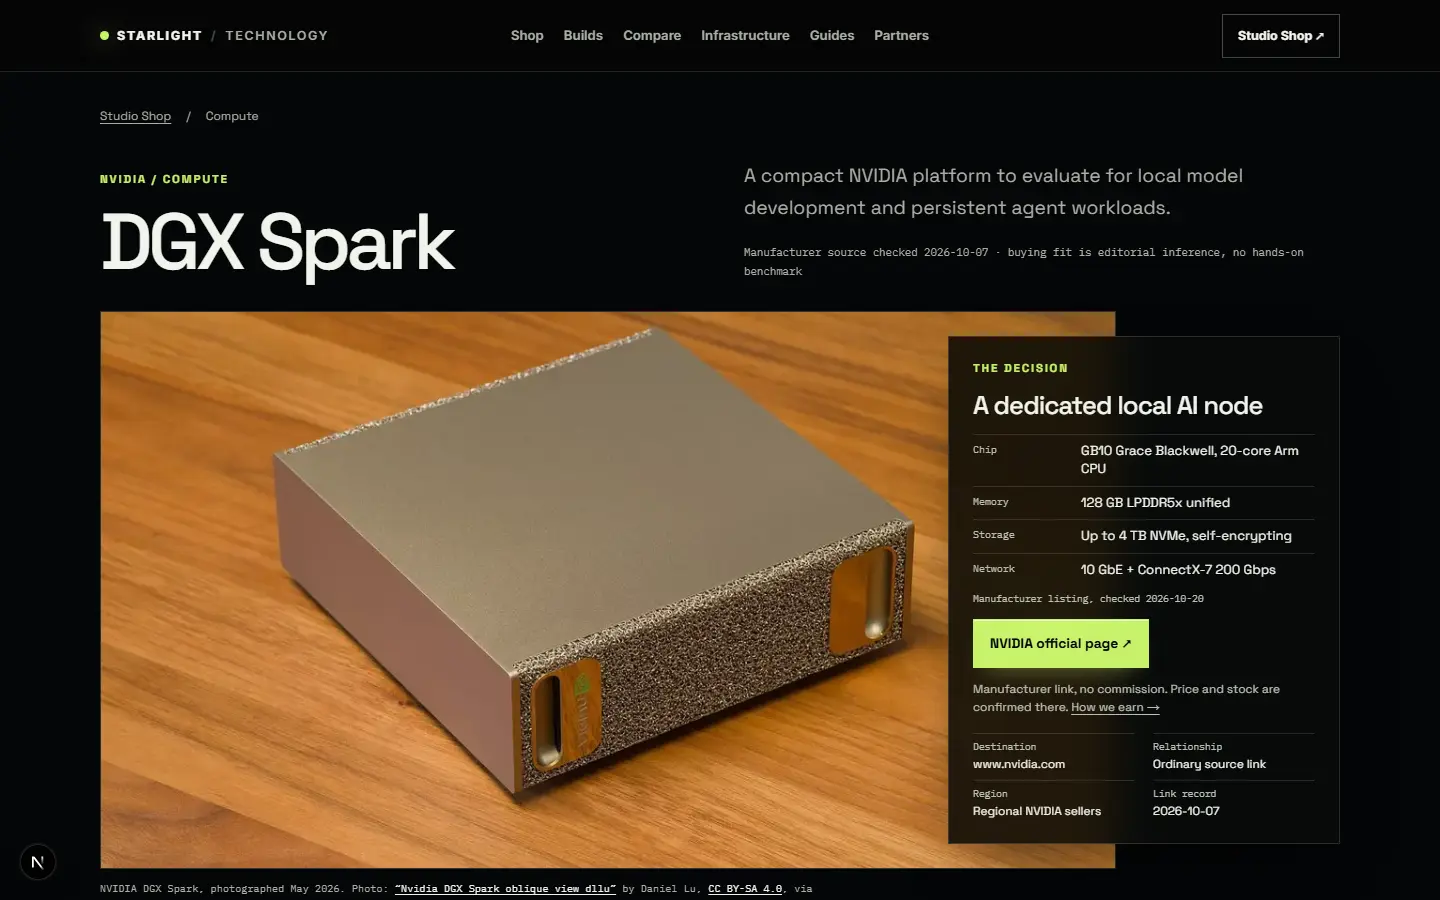
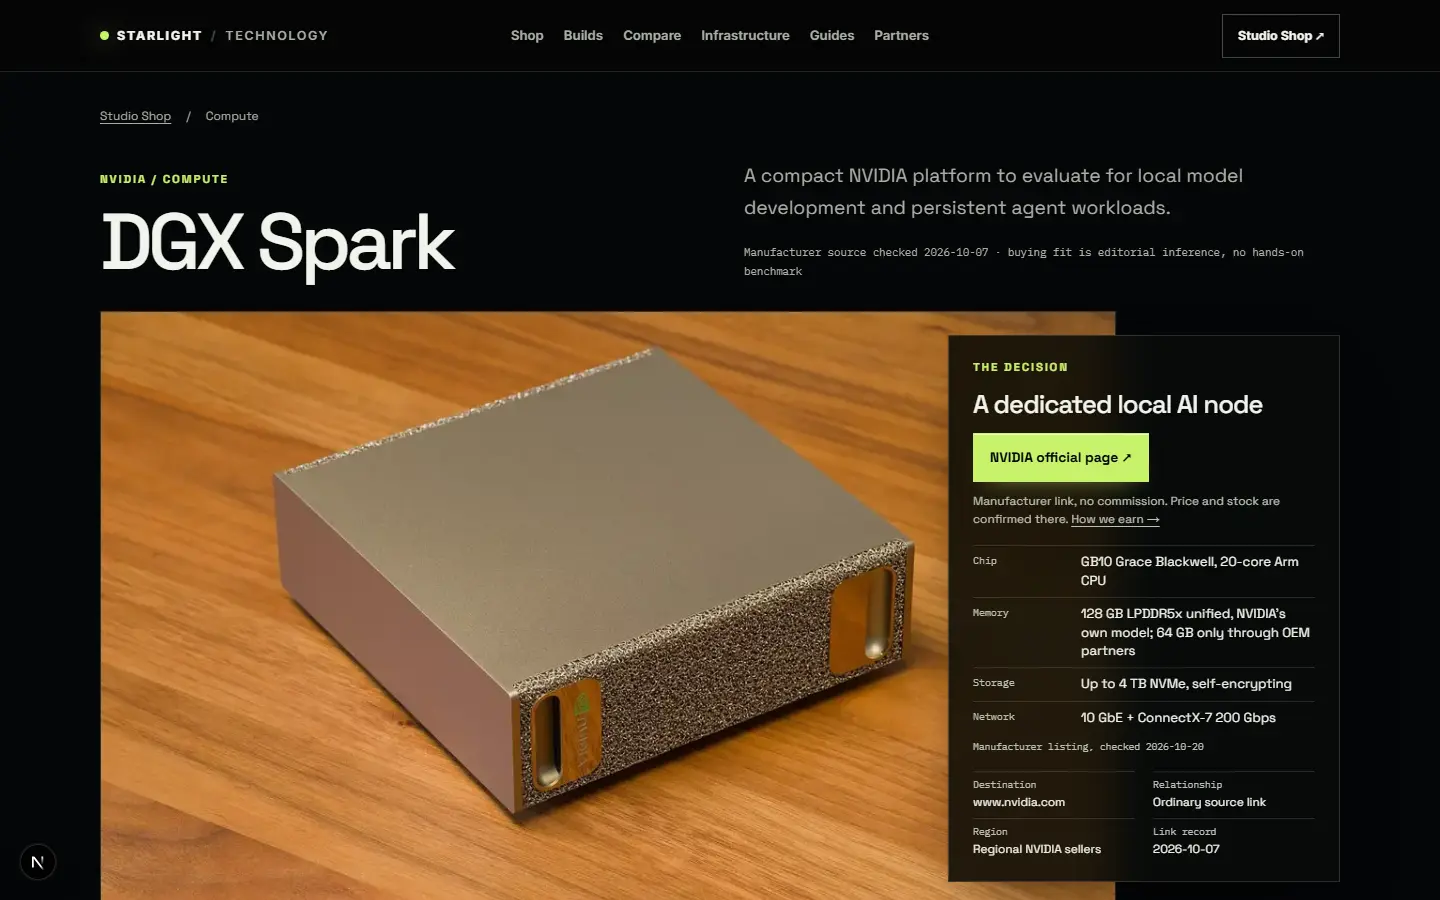
fix(shop): Codex round 2: one sourced Mac pick, DGX variant, UGREEN specs
- Mac Studio panel names one of Apple's three standard configurations
  (M5 Max 18-core CPU / 40-core GPU, 64 GB, 1 TB) as the pick, with the
  wider range on its own row.
- DGX Spark memory row says 128 GB is NVIDIA's own model and 64 GB is
  OEM-only.
- DXP4800 Plus rows filled from UGREEN's NL page: Pentium Gold 8505,
  8 GB DDR5-6400 (to 64 GB), 10 GbE + 2.5 GbE, 4 bays + 2 M.2, 144 TB raw.
- The Mac's DGX alternative is now a replacement path, not an add-on.
- Photos that show a different variant are left out of Open Graph and
  Product JSON-LD.
- The action moves above the configuration rows and the mobile photo goes
  16:10, so the action sits inside the first 375 x 812 viewport.

diff --git a/src/app/shop/[slug]/page.tsx b/src/app/shop/[slug]/page.tsx
@@ -16,7 +16,8 @@ export async function generateMetadata({ params }: { params: Promise<{ slug: str
   const product = getShopProduct(slug);
   if (!product) return {};
   const photo = getShopPhoto(slug);
-  return { title: `${product.brand} ${product.name} — Buying decision`, description: product.summary, alternates: { canonical: `/shop/${slug}` }, openGraph: { title: `${product.brand} ${product.name}`, description: product.summary, url: `/shop/${slug}`, ...(photo ? { images: [{ url: photo.src, width: photo.width, height: photo.height, alt: photo.alt }] } : {}) } };
+  const shareable = photo && !photo.variantNote ? photo : undefined;
+  return { title: `${product.brand} ${product.name} — Buying decision`, description: product.summary, alternates: { canonical: `/shop/${slug}` }, openGraph: { title: `${product.brand} ${product.name}`, description: product.summary, url: `/shop/${slug}`, ...(shareable ? { images: [{ url: shareable.src, width: shareable.width, height: shareable.height, alt: shareable.alt }] } : {}) } };
 }
 
 export default async function ProductPage({ params }: { params: Promise<{ slug: string }> }) {
@@ -28,7 +29,7 @@ export default async function ProductPage({ params }: { params: Promise<{ slug: 
   const config = shopConfigs[slug];
   const alternatives = (shopAlternatives[slug] ?? []).flatMap((alt) => { const item = getShopProduct(alt.slug); return item ? [{ item, tradeoff: alt.tradeoff }] : []; });
   const affiliate = offer.relationship === "affiliate";
-  const schema = { "@context": "https://schema.org", "@type": "Product", name: `${product.brand} ${product.name}`, description: product.summary, brand: { "@type": "Brand", name: product.brand }, url: `https://starlight.technology/shop/${slug}`, ...(photo ? { image: `https://starlight.technology${photo.src}` } : {}) };
+  const schema = { "@context": "https://schema.org", "@type": "Product", name: `${product.brand} ${product.name}`, description: product.summary, brand: { "@type": "Brand", name: product.brand }, url: `https://starlight.technology/shop/${slug}`, ...(photo && !photo.variantNote ? { image: `https://starlight.technology${photo.src}` } : {}) };
   return <article className={`${styles.shop} shell`}>
     <script type="application/ld+json" dangerouslySetInnerHTML={{ __html: JSON.stringify(schema).replace(/</g, "\\u003c") }} />
     <nav className={styles.breadcrumb} aria-label="Breadcrumb"><Link href="/shop">Studio Shop</Link><span>/</span><span>{product.category}</span></nav>
@@ -55,10 +56,11 @@ export default async function ProductPage({ params }: { params: Promise<{ slug: 
         <p className="eyebrow">The decision</p>
         <h2 id="decision-heading">{product.role}</h2>
         {photo?.variantNote && <p className={styles.panelNote}>{photo.variantNote}</p>}
-        {config && <dl className={styles.panelConfig} aria-label={`Manufacturer-listed configuration, checked ${config.checkedOn}`}>{config.rows.map(([label, value]) => <div key={label}><dt>{label}</dt><dd>{value}</dd></div>)}</dl>}
-        {config && <p className={styles.panelSource}>Manufacturer listing, checked {config.checkedOn}</p>}
         <a className="button button-primary button-lit" href={offer.href} target="_blank" rel={affiliate ? "sponsored noopener" : "noopener"}>{affiliate ? `View at ${offer.merchant} ↗` : `${offer.merchant} official page ↗`}</a>
         <p className={styles.panelDisclosure}>{affiliate ? "Affiliate link: we may earn a commission. Price and stock are confirmed on the merchant site." : "Manufacturer link, no commission. Price and stock are confirmed there."} <Link href="/disclosure">How we earn →</Link></p>
+        {config?.pick && <p className={styles.panelPick}>{config.pick}</p>}
+        {config && <dl className={styles.panelConfig} aria-label={`Manufacturer-listed configuration, checked ${config.checkedOn}`}>{config.rows.map(([label, value]) => <div key={label}><dt>{label}</dt><dd>{value}</dd></div>)}</dl>}
+        {config && <p className={styles.panelSource}>Manufacturer listing, checked {config.checkedOn}</p>}
         <dl className={styles.panelRecord}>
           <div><dt>Destination</dt><dd>{new URL(offer.href).hostname}</dd></div>
           <div><dt>Relationship</dt><dd>{affiliate ? "Approved affiliate link" : "Ordinary source link"}</dd></div>

diff --git a/src/lib/shop-configs.ts b/src/lib/shop-configs.ts
@@ -1,16 +1,17 @@
 export interface ShopConfig {
   checkedOn: string;
+  pick?: string;
   rows: [label: string, value: string][];
 }
 
 // Copied from each product's manufacturer page (product.sourceUrl) on checkedOn.
 // Advertised figures only: no benchmark, price or stock claim.
 export const shopConfigs: Record<string, ShopConfig> = {
-  "nvidia-dgx-spark": { checkedOn: "2026-10-20", rows: [["Chip", "GB10 Grace Blackwell, 20-core Arm CPU"], ["Memory", "128 GB LPDDR5x unified"], ["Storage", "Up to 4 TB NVMe, self-encrypting"], ["Network", "10 GbE + ConnectX-7 200 Gbps"]] },
+  "nvidia-dgx-spark": { checkedOn: "2026-10-20", rows: [["Chip", "GB10 Grace Blackwell, 20-core Arm CPU"], ["Memory", "128 GB LPDDR5x unified, NVIDIA's own model; 64 GB only through OEM partners"], ["Storage", "Up to 4 TB NVMe, self-encrypting"], ["Network", "10 GbE + ConnectX-7 200 Gbps"]] },
   "nvidia-rtx-5090": { checkedOn: "2026-10-20", rows: [["Memory", "32 GB GDDR7"], ["CUDA cores", "21,760"], ["Power", "575 W card; 1000 W system PSU"], ["Founders Edition", "304 mm long; partner boards vary"]] },
   "minisforum-ms-s1-max": { checkedOn: "2026-10-20", rows: [["Chip", "AMD Ryzen AI Max+ 395"], ["Memory", "64 GB LPDDR5x-8000 unified, soldered"], ["Storage", "2 TB SSD"], ["Network", "Dual 10 GbE, Wi-Fi 7, USB4 v2"]] },
-  "apple-mac-studio": { checkedOn: "2026-10-20", rows: [["Chip", "M5 Max or M5 Ultra"], ["Memory", "36 GB to 512 GB unified"], ["Storage", "512 GB to 16 TB"], ["Choose", "Chip and memory at order; neither upgrades later"]] },
-  "ugreen-dxp4800-plus": { checkedOn: "2026-10-20", rows: [["Bays", "4 drive bays + 2 SSD slots"], ["Listed maximum", "144 TB (32 TB × 4 + 8 TB × 2)"], ["Check", "CPU, RAM and LAN on UGREEN's spec sheet"]] },
+  "apple-mac-studio": { checkedOn: "2026-10-20", pick: "Our pick of Apple's three standard configurations", rows: [["Chip", "M5 Max, 18-core CPU, 40-core GPU"], ["Memory", "64 GB unified; cannot be upgraded later"], ["Storage", "1 TB SSD"], ["Range", "Apple also lists 36–512 GB memory, up to 16 TB, and M5 Ultra"]] },
+  "ugreen-dxp4800-plus": { checkedOn: "2026-10-20", rows: [["CPU", "Intel Pentium Gold 8505"], ["Memory", "8 GB DDR5-6400, expandable to 64 GB"], ["Network", "1 × 10 GbE + 1 × 2.5 GbE"], ["Storage", "4 bays + 2 M.2 NVMe; 144 TB raw maximum"]] },
   "samsung-990-pro-2tb": { checkedOn: "2026-10-20", rows: [["Interface", "PCIe 4.0 x4, NVMe 2.0, M.2 2280"], ["Sequential", "Up to 7,450 MB/s read, 6,900 write"], ["Warranty", "5 years or 1,200 TBW"]] },
   "elgato-stream-deck-plus": { checkedOn: "2026-10-20", rows: [["Controls", "8 LCD keys, 4 push dials"], ["Touch panel", "108 × 14 mm LCD strip"], ["Connection", "USB-C, USB 3.0 port recommended"]] },
   "rode-podmic-usb": { checkedOn: "2026-10-20", rows: [["Capsule", "Dynamic"], ["Outputs", "XLR and USB-C"], ["Processing", "On-board APHEX DSP, headphone out"]] }
@@ -37,7 +38,7 @@ export const shopAlternatives: Record<string, ShopAlternative[]> = {
   ],
   "apple-mac-studio": [
     { slug: "minisforum-ms-s1-max", tradeoff: "Windows or Linux in a compact x86 box, with 64 GB memory that cannot be upgraded." },
-    { slug: "nvidia-dgx-spark", tradeoff: "Keep the Mac for production and add a separate NVIDIA node for CUDA workloads." },
+    { slug: "nvidia-dgx-spark", tradeoff: "Replace macOS with an NVIDIA Linux desktop when your models matter more than Mac-only applications." },
     { slug: "nvidia-rtx-5090", tradeoff: "If you already run a Windows tower, add CUDA there instead of switching platforms." }
   ],
   "ugreen-dxp4800-plus": [

diff --git a/src/components/shop.module.css b/src/components/shop.module.css
@@ -137,14 +137,16 @@
 .stage[data-photo="false"] .decisionPanel { border-color: #46543a; background: #111713; }
 .decisionPanel h2 { margin: 0 0 14px; font-size: 1.6rem; line-height: 1.12; letter-spacing: -.035em; font-weight: 500; }
 .panelNote { margin: -4px 0 14px; padding: 8px 10px; border-left: 2px solid var(--amber); background: rgb(255 191 105 / .1); color: var(--paper); font-size: .76rem; line-height: 1.45; }
-.panelConfig { display: grid; gap: 0; margin: 0 0 6px; }
+.panelPick { margin: 18px 0 6px; color: var(--signal); font: .62rem var(--font-mono), monospace; letter-spacing: .04em; }
+.panelConfig { display: grid; gap: 0; margin: 18px 0 6px; }
+.panelPick + .panelConfig { margin-top: 0; }
 .panelConfig div { display: grid; grid-template-columns: 96px minmax(0, 1fr); gap: 12px; padding: 7px 0; border-top: 1px solid rgb(255 255 255 / .12); }
 .panelConfig dt { color: #b9c0b4; font: .62rem/1.7 var(--font-mono), monospace; }
 .panelConfig dd { margin: 0; font-size: .82rem; line-height: 1.4; }
-.panelSource { margin: 0 0 14px; color: #b9c0b4; font: .6rem var(--font-mono), monospace; }
+.panelSource { margin: 0 0 4px; color: #b9c0b4; font: .6rem var(--font-mono), monospace; }
 .panelDisclosure a { white-space: nowrap; }
 .decisionPanel .button { width: 100%; }
-.panelDisclosure { margin: 12px 0 0; color: #b9c0b4; font-size: .74rem; line-height: 1.5; }
+.panelDisclosure { margin: 10px 0 0; color: #b9c0b4; font-size: .74rem; line-height: 1.5; }
 .panelRecord { display: grid; grid-template-columns: 1fr 1fr; gap: 0 18px; margin: 12px 0 0; }
 .panelRecord div { padding: 6px 0 0; border-top: 1px solid rgb(255 255 255 / .12); margin-top: 6px; min-width: 0; }
 .panelRecord dt { color: #b9c0b4; font: .6rem var(--font-mono), monospace; }
@@ -174,6 +176,9 @@
   .alternatives ul { grid-template-columns: 1fr; }
 }
 @media (max-width: 620px) {
+  .productHead { padding-block: 18px 20px; gap: 10px; }
+  .productHead .lede { font-size: 1rem; line-height: 1.55; }
+  .stageMedia { aspect-ratio: 16 / 10; }
   .decisionPanel { margin-inline: 8px; padding: 22px 18px; }
   .decisionPanel h2 { font-size: 1.4rem; }
   .alternative { grid-template-columns: 92px minmax(0, 1fr); }
